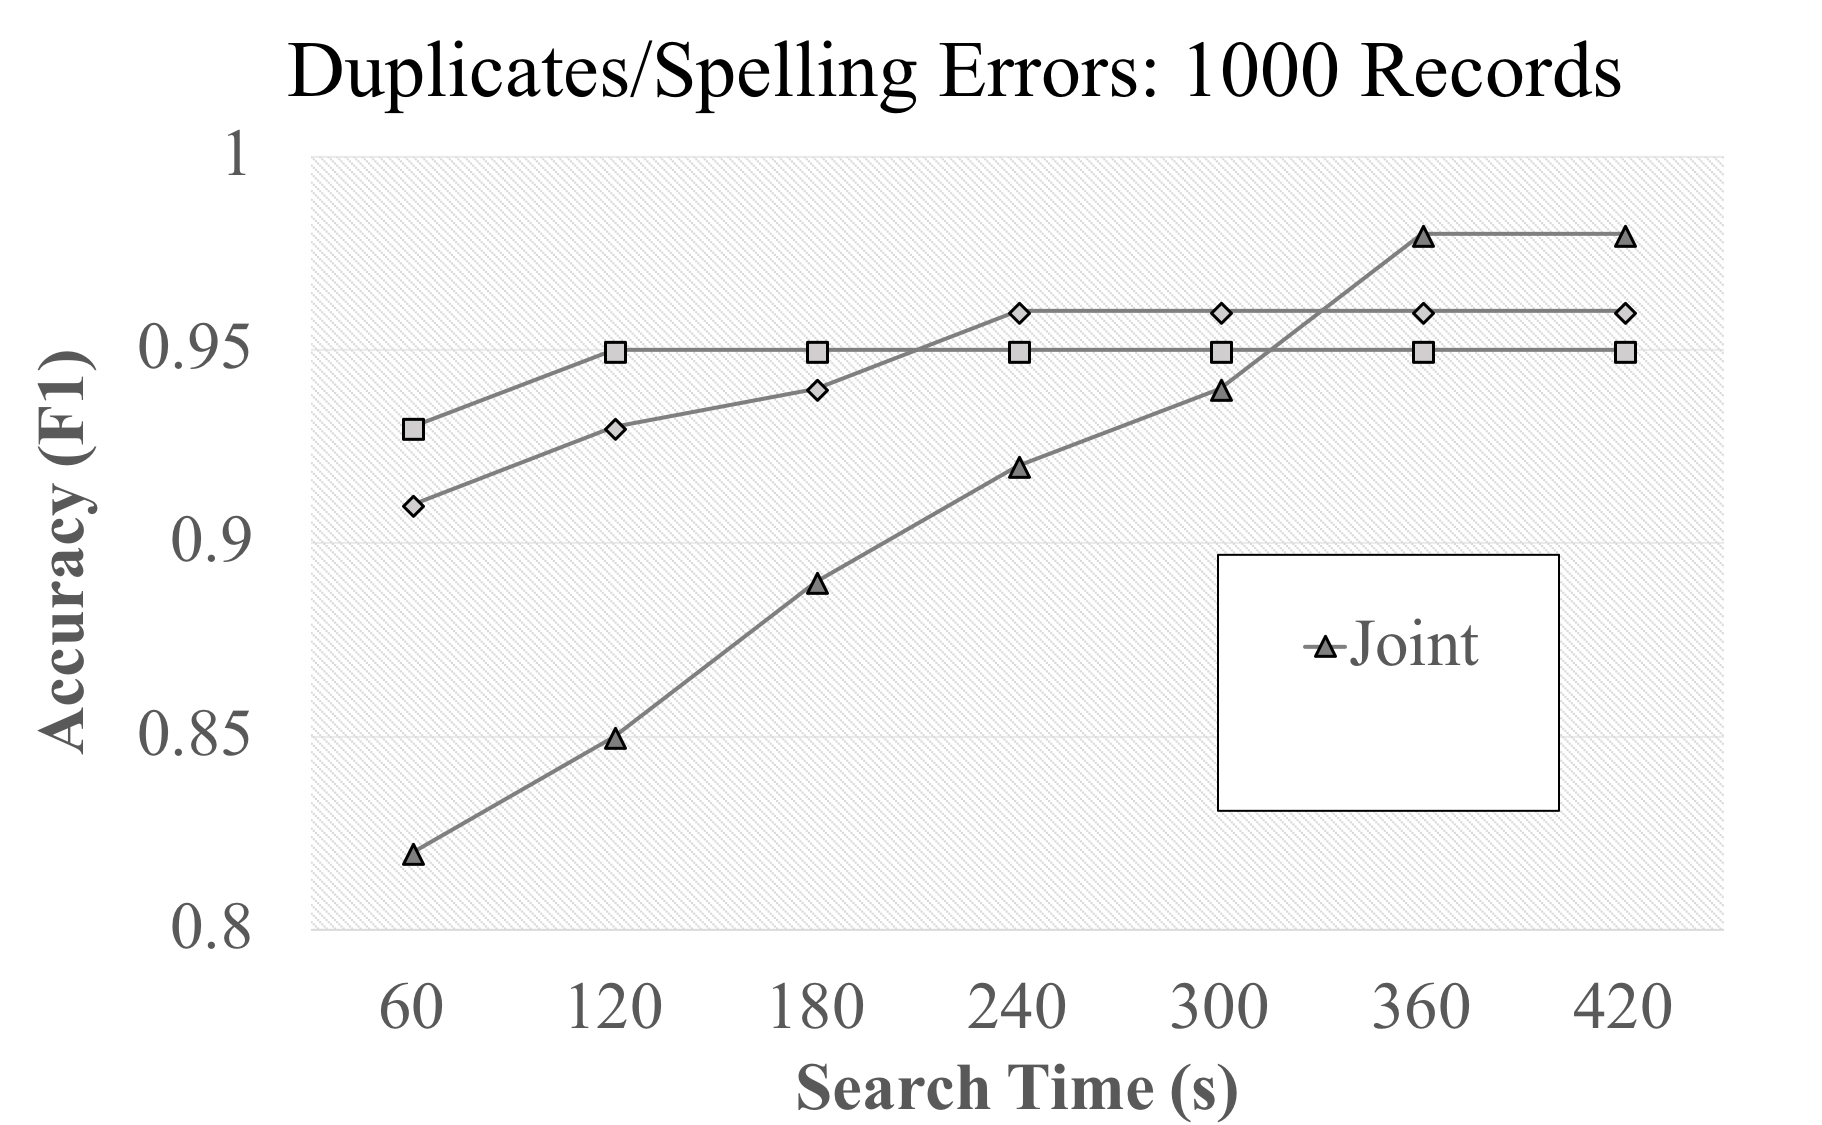
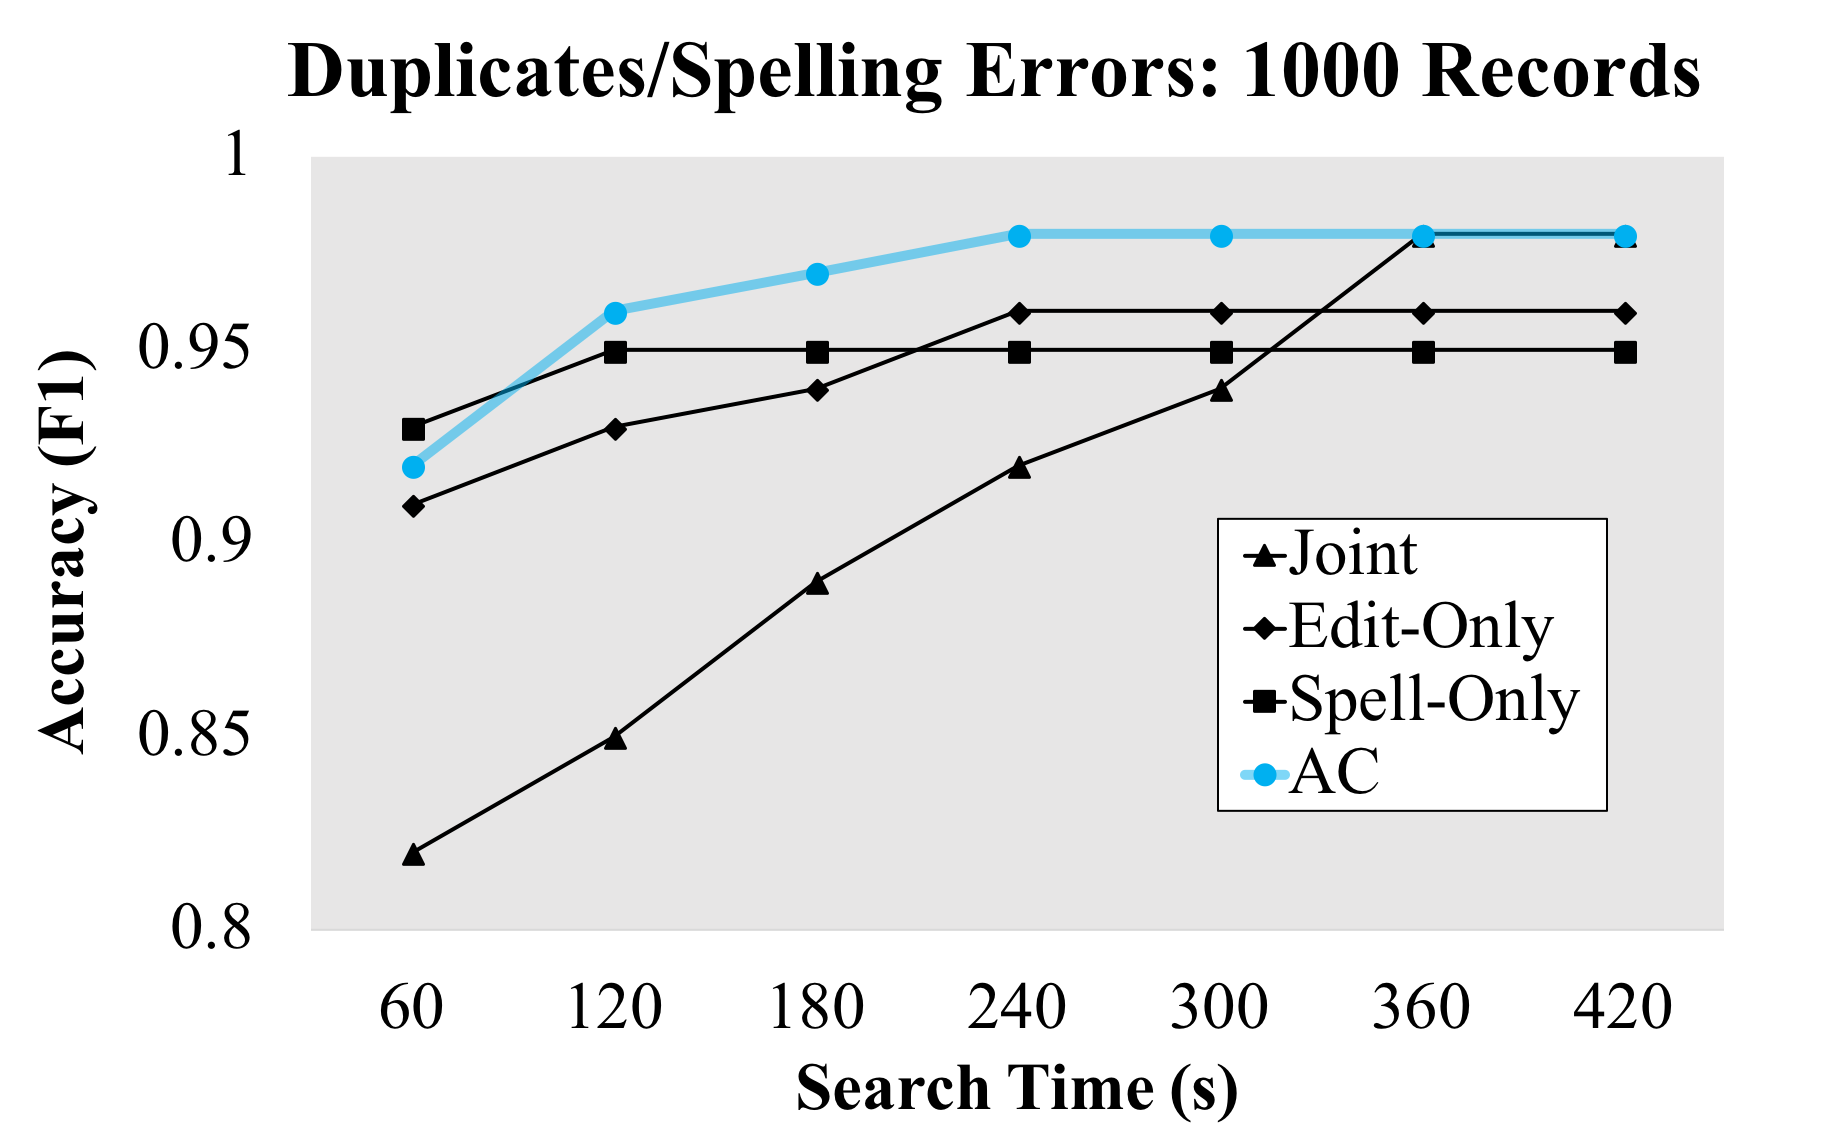
Updates from ShareLaTeX

diff --git a/background.tex b/background.tex
@@ -46,11 +46,14 @@ We compare hyperparameter search for three fixed pipelines:  single-operator pip
 But this issue is often not present in data cleaning problems.
 If we consider data cleaning operators that preserve schema (same input and output types), they can be reordered, queried/optimized independently, and ensembled in ways that general machine learning pipelines cannot.
 For example, what if we independently optimized both single-operator pipelines (\texttt{edit\_dist\_match}) and (\texttt{ispell}), and then took the consensus between their repairs?
-Such operations are disallowed in current hyper-parameter tuning approaches. \ewu{We also include the curve when solving this problem with \sys; the next sections describe the design to accelerate such cleaning problems.}
+Such operations are disallowed in current hyper-parameter tuning approaches. 
 
-\stitle{Runtime Bottlenecks} Finally, hyperparameter tuning algorithms are designed for a paradigm where the objective function is very expensive to evaluate, e.g., training and evaluating a neural network or running a simulation. This delays any feedback until the entire pipeline is evaluated, which can be very expensive for large datasets. Data cleaning is fundamentally a form of constraint satisfaction---easy to verify but hard to satisfy.
-Each candidate pipeline can be much more expensive to compute than evaluating the cost model (e.g., for Denial Constraints).  This bottlenecks any end-to-end tuning on the most expensive step in the pipeline.
-So if one operator is ill-suited for the task and hangs, the entire pipeline is bottlenecked.
+This is the main intuition behind \sys: rather than treating a pipeline as a monolithic parametrized unit, we decompose it into its constituent repairs.
+The system then interleaves those repairs that improve the objective function.
+These repairs can be generated asynchronously in a thread of workers that query each cleaning operator with different parameters--making it robust to operators that are slow or straggle on difficult datasets.
+We also include the curve for when solving this problem with \sys on Figure \ref{fig:teaser}; the next sections describe the design to accelerate such cleaning problems.
+
+
 
 
 

diff --git a/abstract.tex b/abstract.tex
@@ -1,7 +1,8 @@
 \sloppy
 The analyst effort in data cleaning is gradually shifting away from the design of hand-written scripts to building and tuning complex pipelines of automated data cleaning libraries.
-Tuning such pipelines differs from popular hyperparameter tuning approaches since data cleaning operations are not as opaque as the parameters in machine learning. This paper proposes a framework, called \sys, that rethinks parameter tuning for data cleaning pipelines.
+Hyperparameter tuning for data cleaning is very different than hyperparmeter tuning for machine learning since the pipeline components and objective functions have structure that tuning algorithms can exploit.
+This paper proposes a framework, called \sys, that rethinks parameter tuning for data cleaning pipelines.
 \sys provides users with a rich library to define data quality measures with weighted sums of SQL aggregate queries.
-\sys applies generate-then-search framework where each pipelined cleaning operator contribute candidate transformations shared pool.  Asynchronously, in separate threads, a search algorithm sequences them into cleaning pipelines that maximize the user-defined quality measures.
+\sys applies generate-then-search framework where each pipelined cleaning operator contributes candidate transformations to a shared pool.  Asynchronously, in separate threads, a search algorithm sequences them into cleaning pipelines that maximize the user-defined quality measures.
 This architecture allows \sys to apply a number of optimizations including incremental evaluation of the quality measures and learning dynamic pruning rules to reduce the search space.
 Our experiments on real and synthetic benchmarks suggest that \sys finds solutions of up-to 9x higher quality than naively applying state-of-the-art parameter tuning methods, is significantly more robust to straggling data cleaning methods and redundancy in the data cleaning library, and can incorporate state-of-the-art cleaning systems such as HoloClean as cleaning operators.
